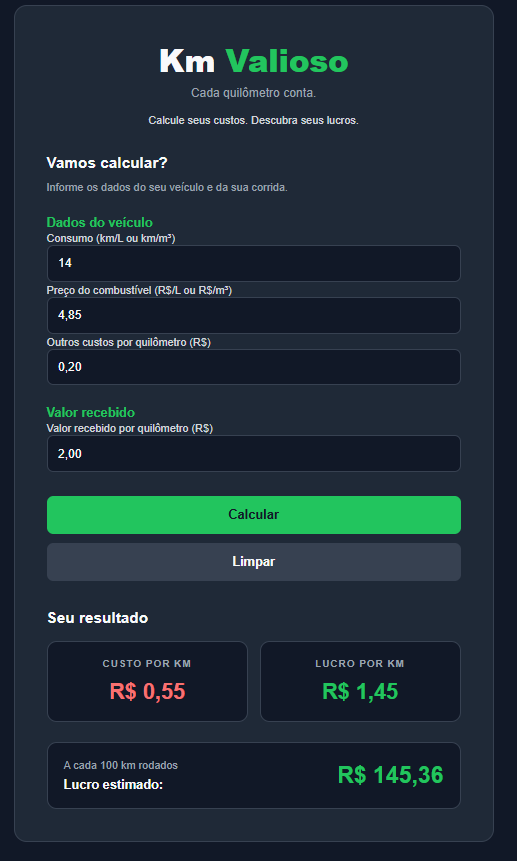
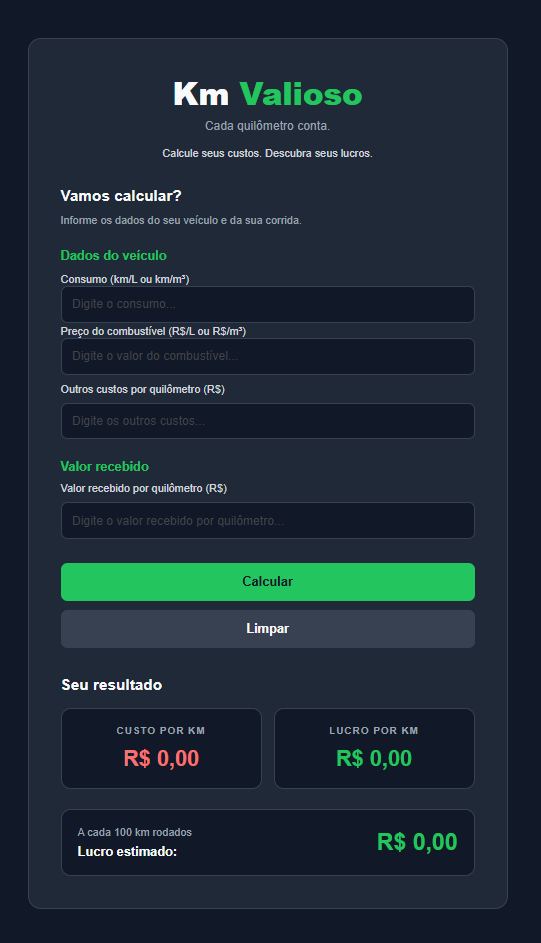
final: corrige e conclui o projeto Km Valioso

diff --git a/index.html b/index.html
@@ -24,17 +24,17 @@
                     <h3>Dados do veículo</h3>
                     <div class="combustivel">
                         <label for="consumo">Consumo (km/L ou km/m³)</label>
-                        <input type="number" id="consumo" name="consumo" placeholder="Digite o consumo..." required step="0.01">
+                        <input type="number" id="consumo" name="consumo" placeholder="Digite o consumo..." required step="0.01" min="0.01">
                         <label for="valor-combustivel">Preço do combustível (R$/L ou R$/m³)</label>
-                        <input type="text" inputmode="numeric" id="valor-combustivel" name="valor-combustivel" placeholder="Digite o valor do combustível..." required step="0.01">
+                        <input type="text" inputmode="numeric" id="valor-combustivel" name="valor-combustivel" placeholder="Digite o valor do combustível..." required>
                     </div>
                     <label for="outros-custos">Outros custos por quilômetro (R$)</label>
-                    <input type="text" inputmode="numeric" id="outros-custos" name="outros-custos" placeholder="Digite os outros custos..." required step="0.01">
+                    <input type="text" inputmode="numeric" id="outros-custos" name="outros-custos" placeholder="Digite os outros custos...">
                 </div>
                 <div class="corrida-form">
                     <h3>Valor recebido</h3>
                     <label for="recebido">Valor recebido por quilômetro (R$)</label>
-                    <input type="text" inputmode="numeric" id="recebido" name="recebido" placeholder="Digite o valor recebido por quilômetro..." required step="0.01">
+                    <input type="text" inputmode="numeric" id="recebido" name="recebido" placeholder="Digite o valor recebido por quilômetro..." required>
                 </div>
                 <div class="botoes">
                     <button type="submit" id="btnCalcular">Calcular</button>

diff --git a/js/script.js b/js/script.js
@@ -38,8 +38,6 @@ botaoCalcular.addEventListener("click", (event) => {
     const valor1 = Number(consumo.value);
     const valor2 = converterNumero(valorCombustivel.value);
     const valor3 = converterNumero(outrosCustos.value)
-    const combustivelKm = valor2 / valor1;
-    const somaVeiculo = combustivelKm + valor3;
     const valor4 = converterNumero(recebido.value);
 
     if (valor1 <= 0) {
@@ -52,7 +50,6 @@ botaoCalcular.addEventListener("click", (event) => {
         return;
     }
 
-
     if (valor3 < 0) {
         alert('Os outros custos não podem ser negativos!');
         return;
@@ -63,8 +60,9 @@ botaoCalcular.addEventListener("click", (event) => {
         return;
     }
 
+    const combustivelKm = valor2 / valor1;
+    const somaVeiculo = combustivelKm + valor3;
     const lucroPorKmTotal = (valor4 - somaVeiculo);
-
     const cada100KmTotal = ((valor4 - somaVeiculo)* 100);
 
     custoPorKm.textContent = formatarMoeda(somaVeiculo);
@@ -73,9 +71,9 @@ botaoCalcular.addEventListener("click", (event) => {
 
 });
 
-const formEl = document.getElementById('formCalculo');
+const form = document.getElementById('formCalculo');
 
-formEl.addEventListener('reset', () => {
+form.addEventListener('reset', () => {
     custoPorKm.textContent = 'R$ 0,00';
     lucroPorKm.textContent = 'R$ 0,00';
     cada100Km.textContent = 'R$ 0,00';

diff --git a/css/style.css b/css/style.css
@@ -76,7 +76,7 @@ body {
     gap: 25px;
 }
 
-.veiculo-form 
+.veiculo-form, 
 .corrida-form {
     display: flex;
     flex-direction: column;
@@ -110,7 +110,7 @@ body {
 
 .calculo-form input:focus {
     border-color: #22c55e;
-    box-shadow: 0 0 0 2px rbg(34 197 94 / 15%);
+    box-shadow: 0 0 0 2px rgba(219, 224, 221, 0.15);
 }
 
 .botoes {
